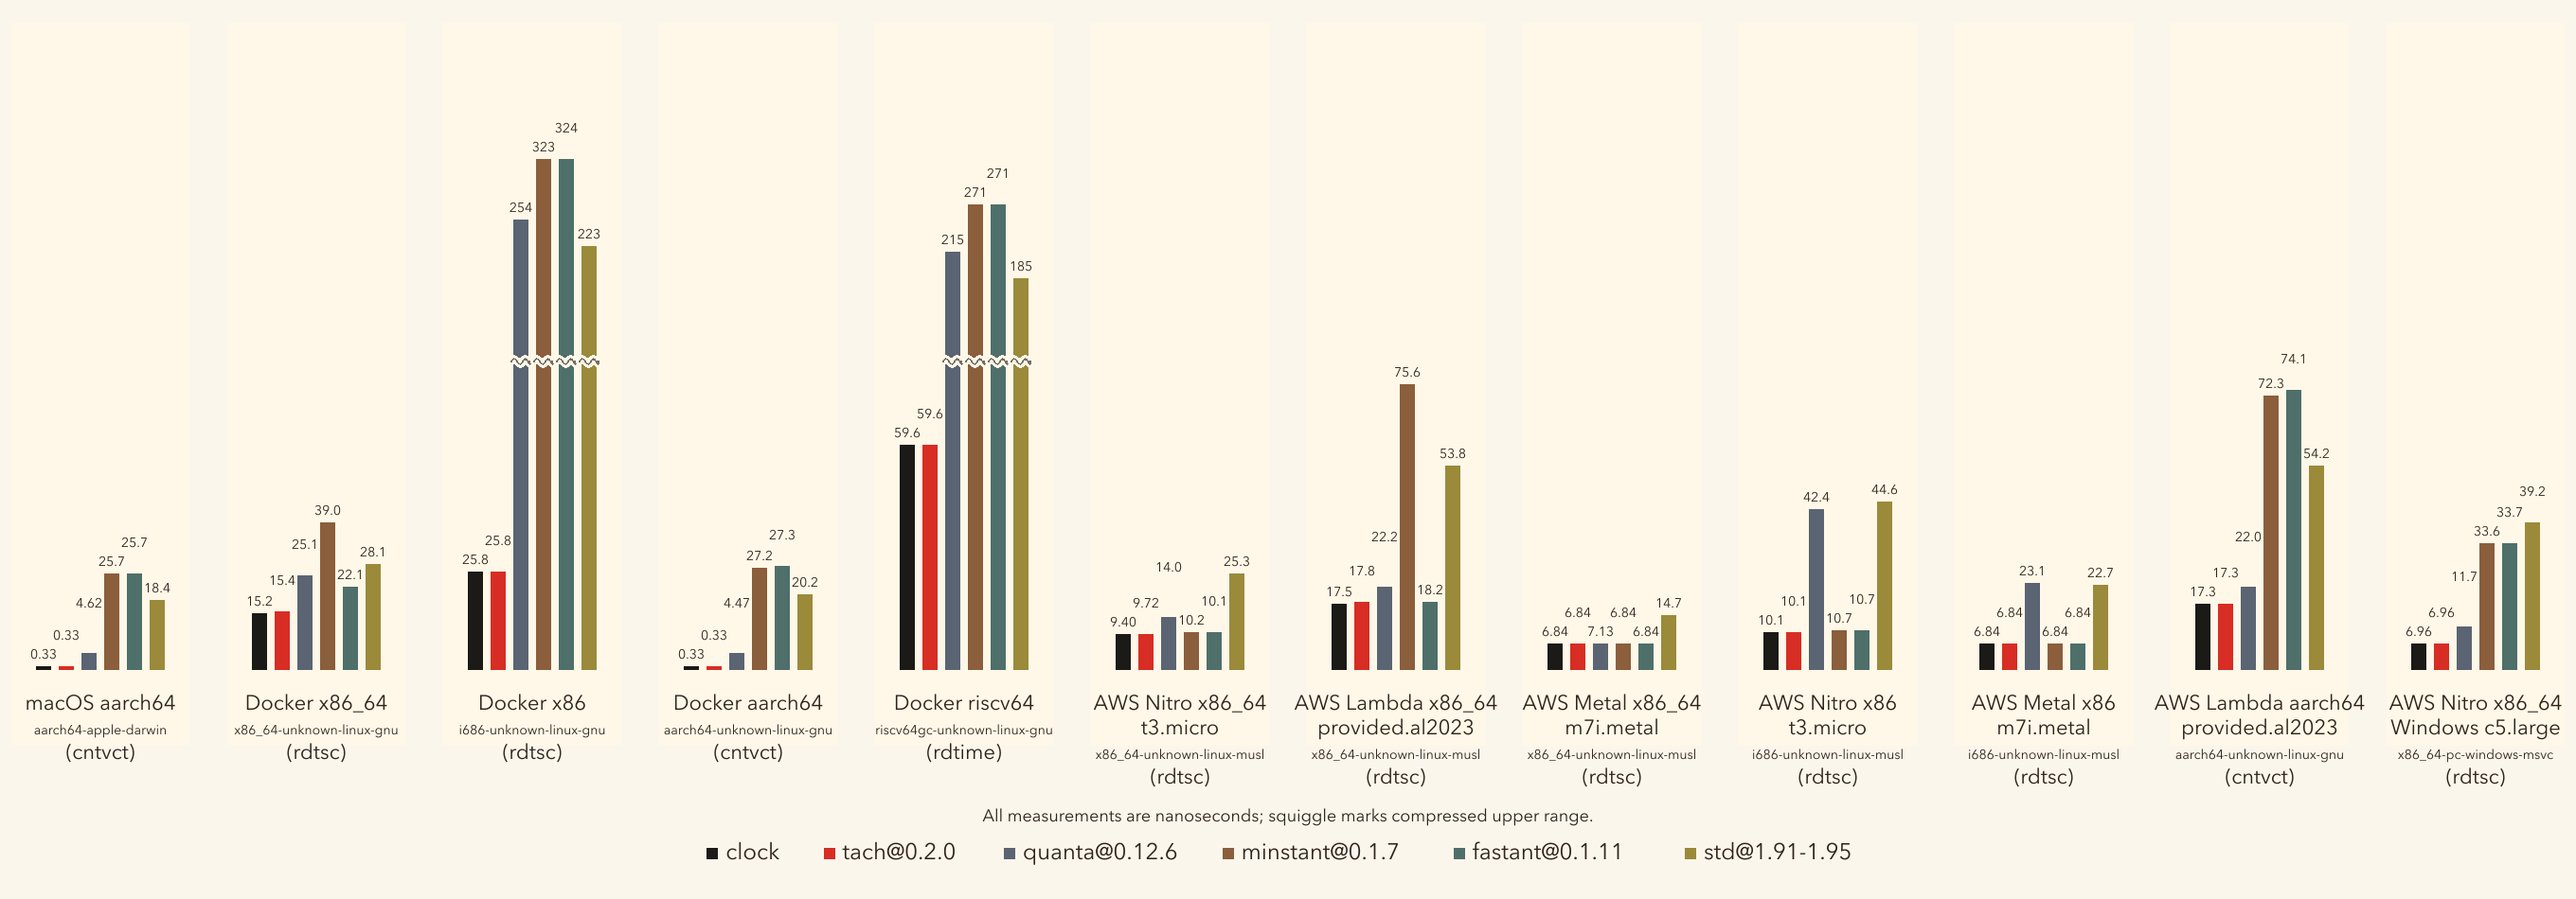
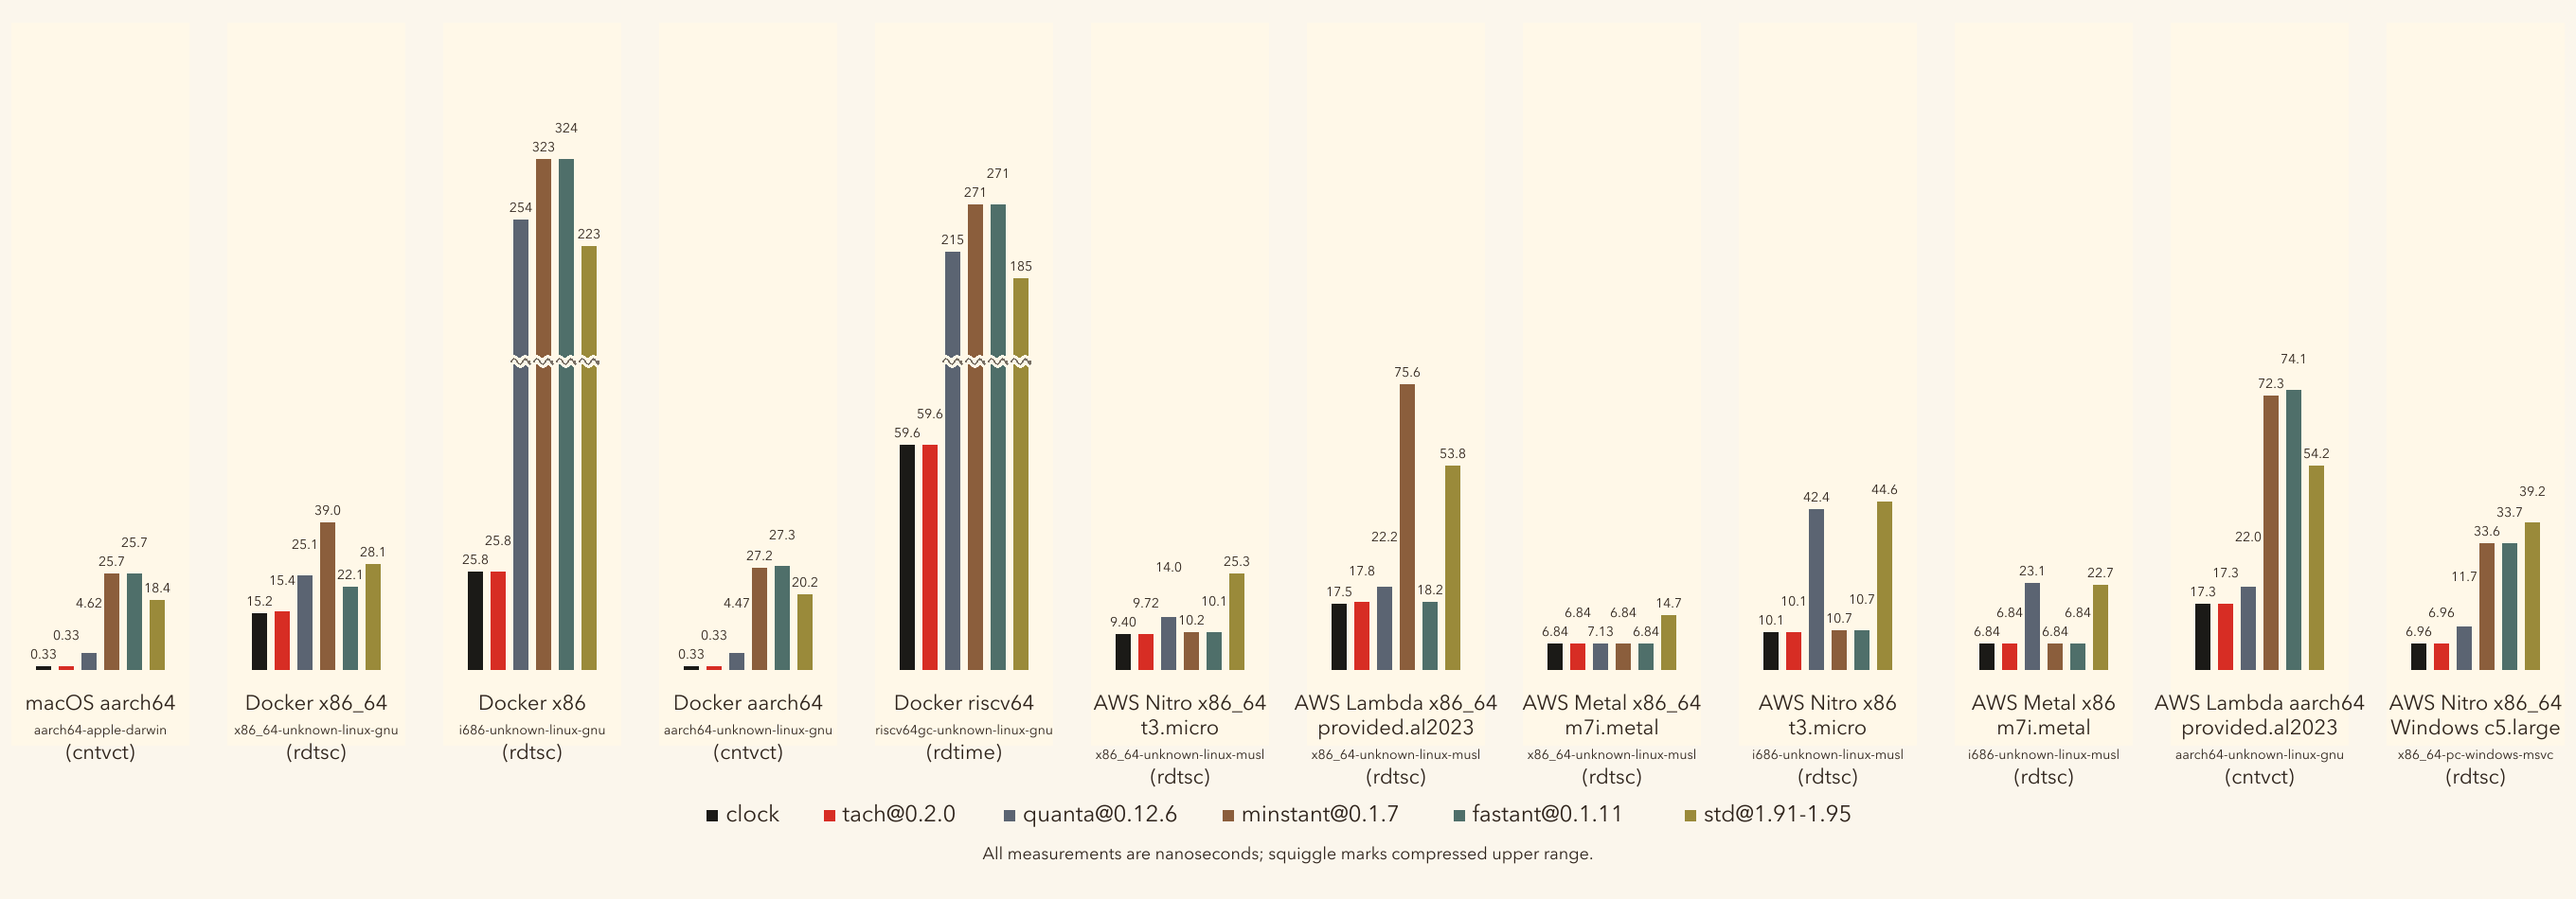
docs(benches): put legend above subtitle in footer
Legend (color key) is closer to interpreting bars; the subtitle
("All measurements are nanoseconds.") reads more as a footnote.
Renaming the gap constants accordingly: LABEL_TO_LEGEND_GAP and
LEGEND_TO_NOTE_GAP.

Changed region(s): [[0.2812, 0.8853, 0.625, 0.9768], [0.6562, 0.8853, 0.7188, 0.9158], [0.6562, 0.9463, 0.6875, 0.9768]]

diff --git a/benches/assets/render_benchmark.py b/benches/assets/render_benchmark.py
@@ -102,8 +102,8 @@ LABEL_FONT_SIZE = 11
 LABEL_LINE_GAP = 13
 LABEL_TOP = BAR_BOTTOM + 21
 SIMPLE_LABEL_TOP = SIMPLE_BAR_BOTTOM + 24
-LABEL_TO_NOTE_GAP = 20
-NOTE_TO_LEGEND_GAP = 20
+LABEL_TO_LEGEND_GAP = 20
+LEGEND_TO_NOTE_GAP = 20
 TARGET_LABEL_FONT_SIZE = 7
 LEGEND_FONT_SIZE = 12
 
@@ -205,8 +205,8 @@ def render_svg(
 
   max_label_lines = max(len(labels) for labels, _ in groups)
   labels_bottom = label_top + (max_label_lines - 1) * LABEL_LINE_GAP
-  note_y = labels_bottom + LABEL_TO_NOTE_GAP
-  legend_y = note_y + NOTE_TO_LEGEND_GAP
+  legend_y = labels_bottom + LABEL_TO_LEGEND_GAP
+  note_y = legend_y + LEGEND_TO_NOTE_GAP
   legend_items = []
   legend_x = (width - legend_width) / 2
   for name, color in crates:
